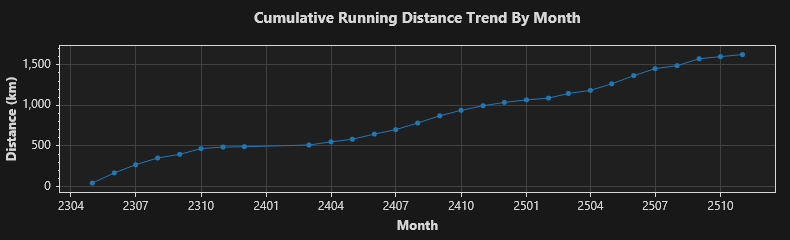
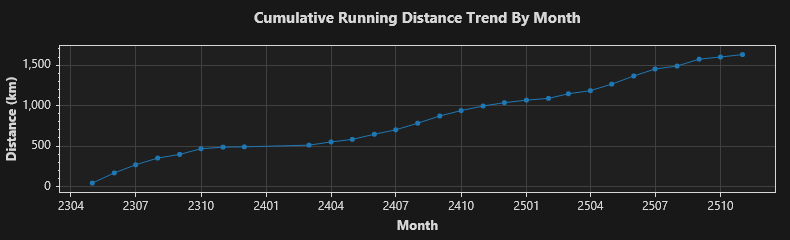
2025/11/18 跑步 5.14 公里

diff --git a/trend.md b/trend.md
@@ -1,4 +1,4 @@
-### Total: 273 days, 1625.39 km.
+### Total: 274 days, 1630.53 km.
 
 
 ![Monthly](https://github.com/prime167/MyRunningLog/blob/main/data/CumulativeTrendByMonth.png)
